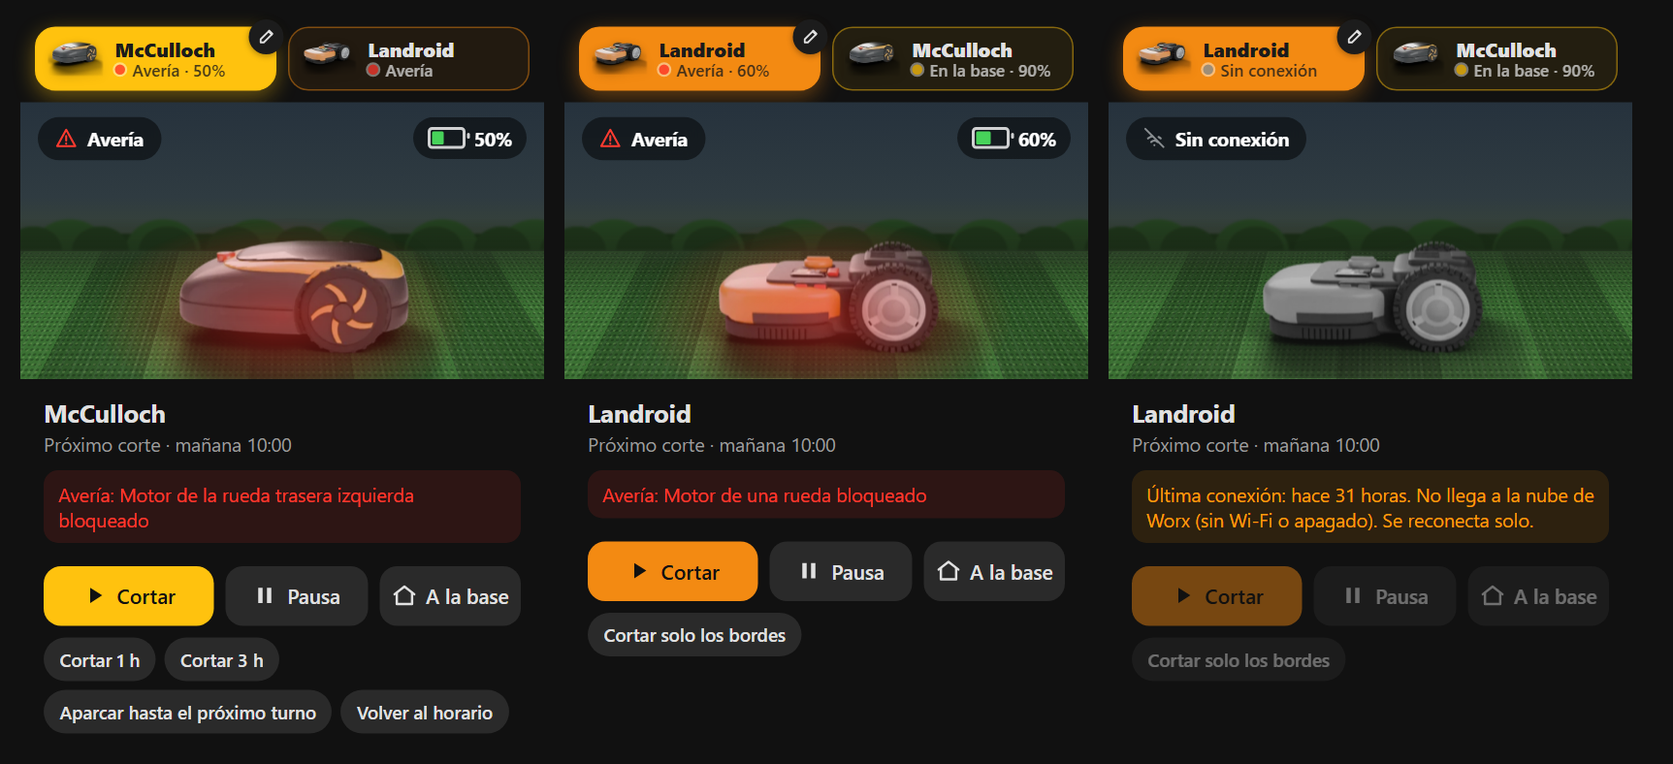
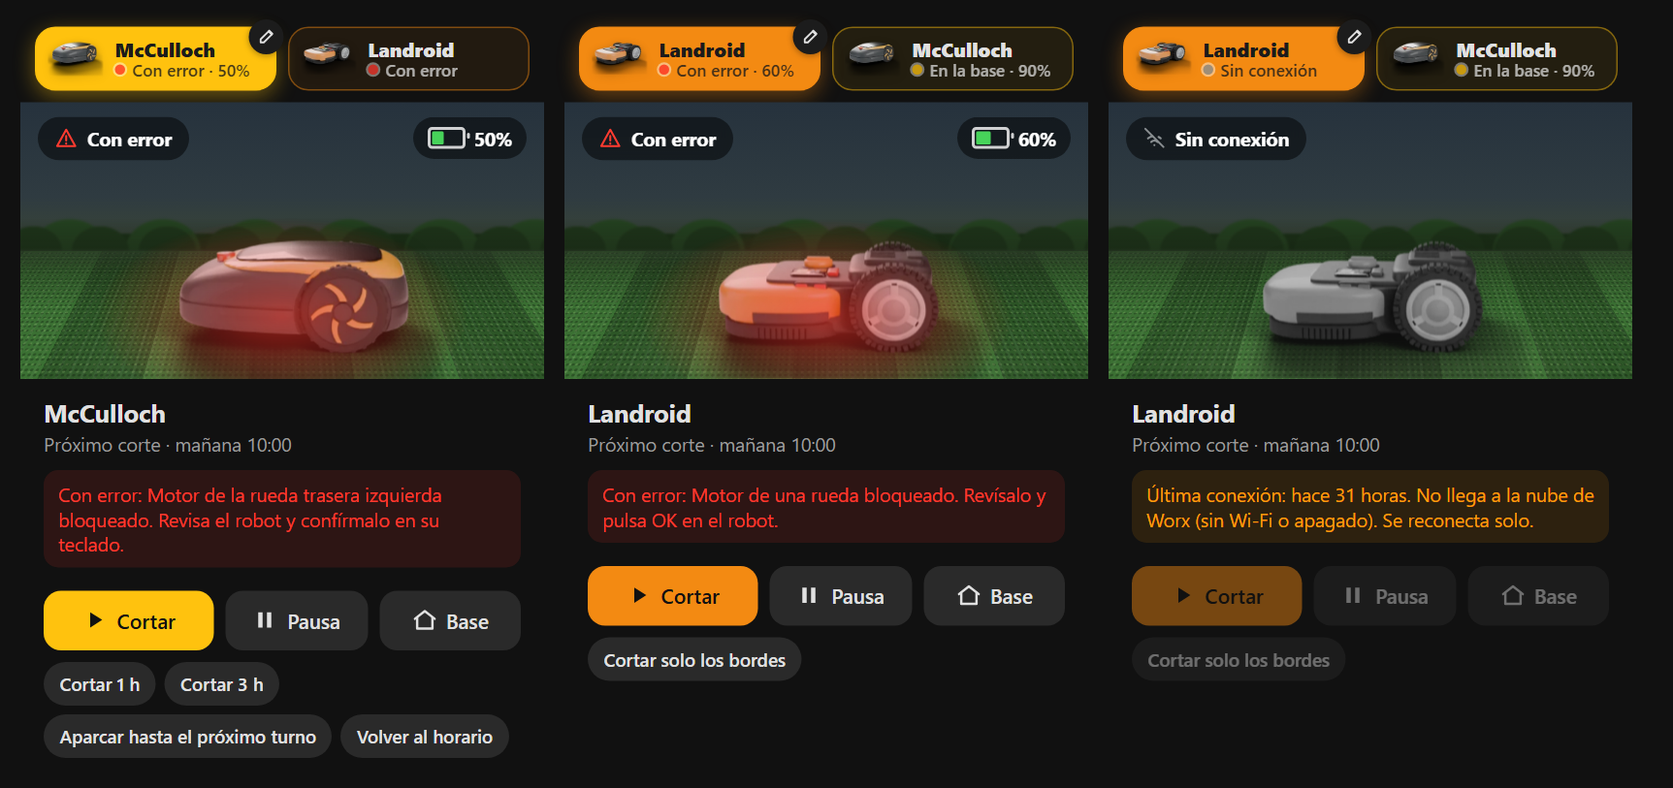
v0.3.40: la tarjeta dice lo mismo que la app
- Mismo vocabulario y los diagnósticos «Error al cargar», «Parado por atasco» y «Parado en el jardín», con qué hacer en cada caso.
- Idiomas, accesibilidad y un test que exige las mismas claves de texto en español y en inglés.
- En columnas estrechas, barra de robots apilada y órdenes sin icono.

Incluye las versiones v0.3.39 a v0.3.40 (2).

diff --git a/custom_components/mcculloch_rob/www/mcculloch-rob-card.js b/custom_components/mcculloch_rob/www/mcculloch-rob-card.js
@@ -7,11 +7,16 @@ const VER = new URL(import.meta.url).search;  // ?v=<versión>: HA sirve www con
 const T = {
   es: {
     mowing: 'Cortando', homing: 'Volviendo a la base', leaving: 'Saliendo de la base', charging: 'Cargando',
-    docked: 'En la base', paused: 'En pausa', idle: 'Parado', offline: 'Fuera de alcance', error: 'Avería',
-    lifted: 'Levantado', upside: 'Volcado', start: 'Cortar', pause: 'Pausa', dock: 'A la base',
+    docked: 'En la base', paused: 'En pausa', idle: 'Parado', offline: 'Sin conexión', error: 'Con error',
+    lifted: 'Levantado', upside: 'Volcado', start: 'Cortar', pause: 'Pausa', dock: 'Base',
+    chargeFail: 'Error al cargar', chargeFailMsg: 'Está en la base pero no carga. Colócalo recto y limpia con un paño los contactos de la base y los del robot.',
+    stuck: 'Parado por atasco', stuckMsg: 'Lleva varios minutos parado fuera de la base y sin ningún error: lo más probable es que esté atascado. Ve a verlo.',
+    gardenStop: 'Parado en el jardín', gardenStopMsg: 'Se ha parado en el jardín y espera que alguien lo atienda.',
+    liftedMsg: 'Déjalo en el césped y sigue solo.', upsideMsg: 'Dale la vuelta y confírmalo en el robot.',
+    errHintMc: 'Revisa el robot y confírmalo en su teclado.', errHintLd: 'Revísalo y pulsa OK en el robot.',
     mow1: 'Cortar 1 h', mow3: 'Cortar 3 h', parkNext: 'Aparcar hasta el próximo turno', resume: 'Volver al horario', edgecut: 'Cortar solo los bordes',
-    next: 'Próximo corte', today: 'hoy', tomorrow: 'mañana', none: 'sin programación', battery: 'Batería', lastData: 'último dato', lastSeen: 'Última conexión',
-    offlineMsg: 'El robot no está al alcance del Bluetooth. Se reconecta solo al volver cerca del receptor.',
+    next: 'Próximo corte', today: 'hoy', tomorrow: 'mañana', none: 'sin programación', battery: 'Batería', lastData: 'último dato', lastSeen: 'Última conexión', lastReading: 'Último dato',
+    offlineMsg: 'El robot no responde por Bluetooth: está lejos del receptor o se ha quedado sin batería. Se reconecta solo en cuanto vuelva a responder.',
     offlineLd: 'No llega a la nube de Worx (sin Wi-Fi o apagado). Se reconecta solo.',
     rain: 'Llueve: espera a que se seque el césped', noLink: 'Sin conexión', noneOff: 'el horario se verá al conectar',
     pick: 'Robot (entidad lawn_mower)', name: 'Nombre que se ve (opcional)', noEntity: 'No encuentro la entidad',
@@ -21,11 +26,16 @@ const T = {
   },
   en: {
     mowing: 'Mowing', homing: 'Going home', leaving: 'Leaving the dock', charging: 'Charging',
-    docked: 'Docked', paused: 'Paused', idle: 'Stopped', offline: 'Out of range', error: 'Error',
+    docked: 'Docked', paused: 'Paused', idle: 'Stopped', offline: 'Offline', error: 'Error',
     lifted: 'Lifted', upside: 'Upside down', start: 'Mow', pause: 'Pause', dock: 'Dock',
+    chargeFail: 'Charging error', chargeFailMsg: 'It is on the dock but not charging. Straighten it and wipe the contacts on the dock and on the mower.',
+    stuck: 'Stopped, probably stuck', stuckMsg: 'It has been stopped away from the dock for several minutes with no error: it is probably stuck. Go and check it.',
+    gardenStop: 'Stopped in the garden', gardenStopMsg: 'It stopped in the garden and is waiting for someone.',
+    liftedMsg: 'Put it back on the lawn and it carries on.', upsideMsg: 'Turn it over and confirm on the mower.',
+    errHintMc: 'Check the mower and confirm on its keypad.', errHintLd: 'Check it and press OK on the mower.',
     mow1: 'Mow 1 h', mow3: 'Mow 3 h', parkNext: 'Park until next run', resume: 'Resume schedule', edgecut: 'Cut edges only',
-    next: 'Next run', today: 'today', tomorrow: 'tomorrow', none: 'no schedule', battery: 'Battery', lastData: 'last known', lastSeen: 'Last seen',
-    offlineMsg: 'The mower is out of Bluetooth range. It reconnects by itself when it comes back near the receiver.',
+    next: 'Next run', today: 'today', tomorrow: 'tomorrow', none: 'no schedule', battery: 'Battery', lastData: 'last known', lastSeen: 'Last seen', lastReading: 'Last reading',
+    offlineMsg: 'The mower is not answering over Bluetooth: it is out of range or its battery is flat. It reconnects by itself as soon as it answers.',
     offlineLd: 'It cannot reach the Worx cloud (no Wi-Fi or switched off). It reconnects by itself.',
     rain: 'Raining: waiting for the lawn to dry', noLink: 'Offline', noneOff: 'schedule shows up once connected',
     pick: 'Mower (lawn_mower entity)', name: 'Display name (optional)', noEntity: 'Entity not found',
@@ -53,7 +63,7 @@ const errsReady = fetch(BASE + 'errores_es.json' + VER).then(r => r.json()).then
 
 const CSS = `
 :host{display:block}
-ha-card{overflow:hidden}
+ha-card{display:block;overflow:hidden;container-type:inline-size}
 .rbar{display:grid;grid-template-columns:1fr 1fr;gap:8px;padding:10px 10px 8px}
 .rbar[hidden]{display:none}
 /* cada robot con su foto y su color de marca: el elegido, relleno; el otro, solo con el borde */
@@ -65,6 +75,8 @@ ha-card{overflow:hidden}
 .rbar .th{width:38px;height:28px;flex:none;object-fit:contain;filter:drop-shadow(0 2px 3px rgba(0,0,0,.3))}
 .rbar .rtx{display:flex;flex-direction:column;min-width:0;flex:1}
 .rbar b{overflow-wrap:anywhere}
+/* columna estrecha (menos de ~340 px): los dos robots uno encima del otro; lado a lado partían «McCul·loch» a mitad de palabra */
+@container (max-width:340px){.rbar{grid-template-columns:1fr}.rbar b{overflow-wrap:break-word}}
 .rbar small{display:flex;align-items:center;gap:5px;opacity:.75;font-weight:550;font-size:11.5px}
 .rbar button.on small{opacity:.8}
 /* lápiz como insignia en la esquina: el nombre y el estado usan todo el ancho y no se parten */
@@ -164,6 +176,8 @@ ha-card{overflow:hidden}
 .acts button.main{background:var(--accent,#ffc20e);color:#111}
 .acts button:disabled,.chips button:disabled{opacity:.45;cursor:default}
 .acts svg{width:18px;height:18px}
+/* muy estrecha (menos de ~300 px): sin iconos en las tres órdenes y con menos margen; con el icono, «Base» se salía de la tarjeta */
+@container (max-width:300px){.acts{padding:12px 10px 8px;gap:6px}.acts button{min-width:0;font-size:13px}.acts svg{display:none}}
 .chips{display:flex;flex-wrap:wrap;gap:6px;padding:0 16px 14px}
 .chips button{font-size:12.5px;padding:7px 11px;border-radius:99px}
 .chips button[hidden]{display:none}
@@ -184,7 +198,7 @@ const HTML = `
   </div>
   <div class="body">
     <div class="title"><b id="name"></b><span id="next"></span></div>
-    <div id="alert"></div>
+    <div id="alert" role="status" aria-live="polite"></div>
   </div>
   <div class="acts">
     <button class="main" data-a="start"><svg viewBox="0 0 24 24" fill="currentColor"><path d="M8 5v14l11-7z"/></svg><span></span></button>
@@ -356,11 +370,13 @@ class McCullochRobCard extends HTMLElement {
     this._update();
   }
 
-  _t(k) { const l = (this._hass?.locale?.language || this._hass?.language || 'en').slice(0, 2); return (T[l] || T.en)[k]; }
+  // gallego, catalán y euskera, en español (no en inglés): los textos están en español e inglés
+  _lang() { const l = (this._hass?.locale?.language || this._hass?.language || 'en').slice(0, 2); return ['gl', 'ca', 'eu'].includes(l) ? 'es' : l; }
+  _t(k) { return (T[this._lang()] || T.en)[k]; }
 
   _errText(kind, code) {
     if (!code || ['ninguno', 'none', 'no_error', 'unknown', 'unavailable'].includes(code)) return '';
-    const es = (this._hass?.locale?.language || 'es').startsWith('es');
+    const es = !this._hass?.locale?.language || this._lang() === 'es';
     const tx = es && ERRS ? (ERRS[kind] || {})[code] || (ERRS.mcculloch || {})[code] : null;
     return tx || code.replace(/_/g, ' ').replace(/^./, x => x.toUpperCase());
   }
@@ -460,7 +476,8 @@ class McCullochRobCard extends HTMLElement {
     const on = k => st(k)?.state === 'on', mower = h.states[entity], kind = this._kind(entity);
     const val = k => { const s = st(k)?.state; return s && !['unknown', 'unavailable'].includes(s) ? s : null; };
     const act = val('activity'), state = val('state'), bat = val('battery') == null ? NaN : Number(val('battery'));
-    const offline = !mower || mower.state === 'unavailable';
+    // «unknown» = conectado pero sin leer aún el estado: tampoco se le pueden dar órdenes (la app dice lo mismo)
+    const offline = !mower || ['unavailable', 'unknown'].includes(mower.state);
     const err = val('error');
     const ldErr = kind === 'landroid' && err && !['no_error', 'unknown', 'rain_delay'].includes(err);
     const charging = on('charging');
@@ -468,14 +485,23 @@ class McCullochRobCard extends HTMLElement {
     const upside = on('upside_down') || (kind === 'landroid' && err === 'upside_down');
     const error = on('problem') || state === 'error' || state === 'fatal_error' || mower?.state === 'error' || (ldErr && !lifted && !upside);
     const moving = ['mowing', 'going_out', 'going_home'].includes(act) || (!act && ['mowing', 'edgecut'].includes(mower?.state));
-    const s = offline ? 'offline' : upside ? 'upside' : lifted ? 'lifted' : error ? 'error' : charging ? 'charging'
+    const s0 = offline ? 'offline' : upside ? 'upside' : lifted ? 'lifted' : error ? 'error' : charging ? 'charging'
       : act === 'going_home' || mower?.state === 'returning' ? 'homing' : act === 'going_out' ? 'leaving'
       : moving ? 'mowing' : (on('in_station') || act === 'parked' || act === 'charging' || mower?.state === 'docked') ? 'docked'
       // la integración manda a «paused» también el robot apagado, esperando PIN o parado: eso no es una pausa
       : ['off', 'wait_for_safetypin', 'stopped'].includes(state) || act === 'stopped_in_garden' ? 'idle'
       : state === 'paused' || mower?.state === 'paused' ? 'paused' : 'idle';
     const rain = kind === 'landroid' && (on('rain') || err === 'rain_delay');
-    return {s, bat, charging, offline, err, kind, rain, mower, ids, st};
+    // Landroid: dos situaciones que el robot no da como error y que se ven igual que en la app: en la base sin
+    // cargar («falta el cable» estando ahí es que no hace contacto) y parado fuera de la base sin ningún error
+    const lm = mower?.state, since = Date.now() - new Date(mower?.last_changed).getTime();
+    const chargeFail = kind === 'landroid' && !offline && st('charging')?.state === 'off' && !lifted && !upside && bat < 98
+      && ((lm === 'docked' && since >= 12e4) || (['docked', 'idle'].includes(lm) && err === 'wire_missing'));
+    const stuck = kind === 'landroid' && !offline && !charging && !chargeFail && !lifted && !upside && lm === 'idle' && !ldErr && since >= 18e4;
+    // el McCulloch que se para en el jardín pide que alguien lo atienda (los avisos al móvil ya lo dicen)
+    const msg = chargeFail ? 'chargeFail' : stuck ? 'stuck' : act === 'stopped_in_garden' && s0 === 'idle' ? 'gardenStop' : null;
+    const s = msg === 'chargeFail' ? 'error' : s0;
+    return {s, msg, col: msg === 'stuck' || msg === 'gardenStop' ? '#ff9f0a' : COLOR[s], bat, charging, offline, err, kind, rain, mower, ids, st};
   }
 
   _update() {
@@ -488,7 +514,7 @@ class McCullochRobCard extends HTMLElement {
     const bar = r.getElementById('rbar');
     bar.hidden = robots.length < 2;
     if (robots.length > 1 && !this._renaming) {
-      const key = robots.map(x => { const q = this._status(x.entity); return [x.entity, q.s, q.bat, name(x), x.entity === this._sel].join('|'); }).join(';');
+      const key = robots.map(x => { const q = this._status(x.entity); return [x.entity, q.s, q.msg, q.bat, name(x), x.entity === this._sel].join('|'); }).join(';');
       if (bar.dataset.k !== key) {
         bar.dataset.k = key;
         bar.replaceChildren(...robots.map(x => {
@@ -498,9 +524,9 @@ class McCullochRobCard extends HTMLElement {
           b.innerHTML = `<img class="th" alt=""><span class="rtx"><b></b><small><i></i><span></span></small></span>`
             + (on ? `<span class="pen" data-pen title="${this._t('rename')}"><svg viewBox="0 0 24 24"><path d="M4 20h4L19 9l-4-4L4 16z"/><path d="M14 6l4 4"/></svg></span>` : '');
           b.querySelector('.th').src = `${BASE}${q.kind === 'landroid' ? 'rob3d_landroid' : 'rob3d'}/icono.webp${VER}`;
-          b.querySelector('i').style.setProperty('--c', COLOR[q.s]);
+          b.querySelector('i').style.setProperty('--c', q.col);
           b.querySelector('b').textContent = name(x);
-          const st = q.s === 'offline' && q.kind === 'landroid' ? this._t('noLink') : this._t(q.s);
+          const st = q.msg ? this._t(q.msg) : q.s === 'offline' && q.kind === 'landroid' ? this._t('noLink') : this._t(q.s);
           b.querySelector('small span').textContent = isNaN(q.bat) ? st : `${st} · ${q.bat}%`;
           return b;
         }));
@@ -515,12 +541,15 @@ class McCullochRobCard extends HTMLElement {
       this._wake();  // pone la vista que toca al nuevo estado (y sigue animando si corta)
     }
     const pill = r.getElementById('pill');
-    pill.style.setProperty('--c', COLOR[s]);
+    pill.style.setProperty('--c', q.col);
     pill.firstChild.innerHTML = ICON[s];
-    const label = s === 'offline' && kind === 'landroid' ? this._t('noLink') : this._t(s);
-    // la etiqueta, corta; la avería concreta, en el aviso de abajo
+    const label = q.msg ? this._t(q.msg) : s === 'offline' && kind === 'landroid' ? this._t('noLink') : this._t(s);
+    // la etiqueta, corta; el error concreto, en el aviso de abajo
     let detail = label;
-    if (s === 'error') { const e = this._errText(kind, q.err); if (e) detail = `${label}: ${e}`; }
+    // y qué hacer: igual que el aviso de la app
+    if (s === 'error' && !q.msg) { const e = this._errText(kind, q.err); detail = `${e ? `${label}: ${e}` : label}. ${this._t(kind === 'landroid' ? 'errHintLd' : 'errHintMc')}`; }
+    if (s === 'lifted') detail = `${label}. ${this._t('liftedMsg')}`;
+    if (s === 'upside') detail = `${label}. ${this._t('upsideMsg')}`;
     if (pill.lastChild.textContent !== label) {
       pill.lastChild.textContent = label;
       pill.classList.remove('bump'); void pill.offsetWidth; pill.classList.add('bump');
@@ -566,14 +595,18 @@ class McCullochRobCard extends HTMLElement {
     // fuera de alcance: cuándo se supo de él por última vez (sensor siempre disponible)
     // sin la entidad (nombre mal escrito o integración quitada) no es un problema de Bluetooth ni de la nube
     let offTxt = !mower ? `${this._t('noEntity')}: ${this._sel}` : this._t(kind === 'landroid' ? 'offlineLd' : 'offlineMsg');
-    const seen = new Date(q.st('last_seen')?.state);
+    let seen = new Date(q.st('last_seen')?.state), seenKey = 'lastSeen';
+    // «Última conexión» sin dato (HA recién arrancado): al menos la última lectura, como hace la app
+    if (offline && mower && isNaN(seen) && q.st('battery')?.last_updated) { seen = new Date(q.st('battery').last_updated); seenKey = 'lastReading'; }
     if (offline && !isNaN(seen)) {
       const mins = (seen - Date.now()) / 6e4;
       const rtf = new Intl.RelativeTimeFormat(h.locale?.language || 'es', {numeric: 'auto'});
       const rel = Math.abs(mins) < 120 ? rtf.format(Math.round(mins), 'minute') : Math.abs(mins) < 2880 ? rtf.format(Math.round(mins / 60), 'hour') : rtf.format(Math.round(mins / 1440), 'day');
-      offTxt = `${this._t('lastSeen')}: ${rel}. ${offTxt}`;
+      offTxt = `${this._t(seenKey)}: ${rel}. ${offTxt}`;
     }
-    const [alCls, alTxt] = offline ? ['alert warn', offTxt] : ['upside', 'lifted', 'error'].includes(s) ? ['alert', detail]
+    // rojo solo para lo que de verdad es un fallo; atascado o parado en el jardín piden atención, en ámbar
+    const [alCls, alTxt] = offline ? ['alert warn', offTxt] : q.msg ? [q.msg === 'chargeFail' ? 'alert' : 'alert warn', this._t(q.msg + 'Msg')]
+      : ['upside', 'lifted', 'error'].includes(s) ? ['alert', detail]
       : q.rain ? ['alert info', this._t('rain')] : ['', ''];
     const alEl = r.getElementById('alert');
     // el texto viene de un sensor: siempre como texto, nunca como HTML
@@ -621,7 +654,7 @@ class McCullochRobCardEditor extends HTMLElement {
     if (!this._form) {
       this._form = document.createElement('ha-form');
       this._form.computeLabel = s => {
-        const l = (this._hass.locale?.language || 'en').slice(0, 2), t = T[l] || T.en;
+        const l0 = (this._hass.locale?.language || 'en').slice(0, 2), l = ['gl', 'ca', 'eu'].includes(l0) ? 'es' : l0, t = T[l] || T.en;
         return {entity: t.pick, name: t.name, entity_2: t.pick2, name_2: t.name2, image: t.image}[s.name];
       };
       this._form.schema = [

diff --git a/tests/test_errores.py b/tests/test_errores.py
@@ -39,6 +39,23 @@ def test_traducciones_mismas_claves_e_ingles_limpio():
             assert en[k] == st[k], k
 
 
+def test_tarjeta_textos_es_y_en_con_las_mismas_claves():
+    """La tarjeta tiene sus textos en español e inglés: una clave que falte en uno saldría como «undefined» en pantalla."""
+    import re
+
+    js = (CC / "www" / "mcculloch-rob-card.js").read_text(encoding="utf-8")
+    bloque = js[js.index("const T = {"): js.index("const ICON")]
+    es_txt, en_txt = bloque.split("  en: {")
+    claves = lambda b: set(re.findall(r"\b(\w+):\s*'", b))  # noqa: E731
+    es, en = claves(es_txt.split("es: {", 1)[1]), claves(en_txt)
+    assert es == en, (es ^ en)
+    # todos los estados que puede enseñar la etiqueta y los avisos del Landroid y del McCulloch
+    for k in ("mowing", "homing", "leaving", "charging", "docked", "paused", "idle", "offline", "error", "lifted", "upside",
+              "chargeFail", "chargeFailMsg", "stuck", "stuckMsg", "gardenStop", "gardenStopMsg", "liftedMsg", "upsideMsg",
+              "errHintMc", "errHintLd", "lastReading"):
+        assert k in es, k
+
+
 def test_avisos_informativos_no_son_averia():
     """Ajustes restaurados, calibración hecha, cambio de conexión...: el robot los guarda como «error» pero no encienden
     «Avería» (ni la tarjeta en rojo ni un aviso al móvil)."""

diff --git a/custom_components/mcculloch_rob/entity.py b/custom_components/mcculloch_rob/entity.py
@@ -11,6 +11,9 @@ from .coordinator import RobCoordinator
 
 class RobEntity(CoordinatorEntity[RobCoordinator]):
     _attr_has_entity_name = True
+    # Los nombres de las entidades van en español FIJO a propósito (no en las traducciones): el id de cada entidad sale
+    # de su nombre (sensor.robot_cortacesped_bateria, binary_sensor.robot_cortacesped_averia...) y la app, la tarjeta y
+    # los avisos dependen de esos ids. Traducir los nombres cambiaría los ids de quien tenga Home Assistant en otro idioma.
 
     def __init__(self, coordinator: RobCoordinator, key: str, name: str | None) -> None:
         super().__init__(coordinator)

diff --git a/README.md b/README.md
@@ -31,6 +31,7 @@ Tus robots cortacésped en Home Assistant, en una tarjeta y en una app para el m
 <p align="center"><img src="docs/tarjeta.png" alt="Tarjeta con el McCulloch: cortando, cargando y volviendo a la base (se queda a medio entrar)" width="860"></p>
 <p align="center"><img src="docs/landroid.png" alt="Tarjeta con el Worx Landroid: cortando, volviendo a la base y esperando por la lluvia" width="860"></p>
 <p align="center"><img src="docs/averias.png" alt="Averías traducidas: motor de la rueda trasera izquierda bloqueado, motor de una rueda bloqueado, sin conexión" width="860"></p>
+<p align="center"><img src="docs/diagnostico.png" alt="Lo que el robot no da como error pero se ve: el Landroid en la base sin cargar, el Landroid parado por atasco y el McCulloch parado en el jardín, cada uno con qué hacer" width="860"></p>
 
 ## Qué incluye
 
@@ -83,7 +84,7 @@ Luego: *Ajustes → Dispositivos y servicios → Añadir integración → McCull
 
 ### 2. Tarjeta en el panel principal
 
-*Editar panel → Añadir tarjeta → "Robots cortacésped (McCulloch / Husqvarna / Landroid)"*. Tiene editor visual: robot, nombre, segundo robot y su nombre. En YAML:
+*Editar panel → Añadir tarjeta → "Robots cortacésped (McCulloch / Husqvarna / Landroid)"*. Tiene editor visual: robot, nombre, segundo robot y su nombre, y foto propia. En YAML:
 
 ```yaml
 type: custom:mcculloch-rob-card
@@ -96,6 +97,8 @@ image: /local/robot.webp     # opcional: foto propia del primer robot
 
 - Con dos robots sale arriba una barra con el estado y la batería de cada uno para cambiar de uno a otro.
 - El robot **se gira con el dedo**: arrástralo a los lados y, a los 3 segundos, vuelve solo a lo que estaba haciendo.
+- **Dice qué le pasa y qué hacer**, igual que la app: «Con error» con el error concreto, «Levantado» o «Volcado», «Sin conexión» con el último dato, y dos diagnósticos que el robot no da como error: el Landroid **«Error al cargar»** (en la base sin cargar) y **«Parado por atasco»** (parado fuera de la base sin ningún error), y el McCulloch **«Parado en el jardín»**.
+- Textos en español e inglés (con Home Assistant en gallego, catalán o euskera salen en español).
 - Cada robot enseña solo sus botones: el McCulloch "1 h", "3 h", "aparcar hasta el próximo turno" y "volver al horario"; el Landroid "cortar solo los bordes".
 
 **Foto propia:** guarda una imagen PNG o WebP con fondo transparente y el morro mirando a la izquierda en `/config/www/robot.webp` y añade `image: /local/robot.webp`. Así no se pierde al actualizar.
@@ -217,10 +220,12 @@ GPL-3.0, la misma que AutoMower-BLE.
 - Bluetooth integration (`mcculloch_rob`), no cloud: 98 protocol commands, schedule editing, mow/park for N hours, ~50 entities. An extended alternative to the core *Husqvarna Automower BLE* integration.
 - Lovelace card (`custom:mcculloch-rob-card`) for one or two mowers. The second one can be a Worx Landroid from the Landroid Cloud integration. It has custom Blender 3D models you can spin with your finger.
 - Installable web app (HA add-on, Docker or plain Python):
-  - push notifications;
+  - push notifications (tapping one opens the mower it is about);
   - a name and a password per mower;
+  - schedule editor (including slots that cross midnight) and history charts: 24 h activity and battery, and hours mown and error stops per day over the last 7 days;
   - last known data when out of range;
-  - auto-update.
+  - dark mode, auto-update.
+- Plain-language diagnostics, in the card and in the app, with what to do about each: *Charging error* (docked but not charging), *Stopped, probably stuck*, *Stopped in the garden*, lifted, upside down, offline.
 - All 161 error codes translated to Spanish.
 
 Install via HACS as a custom repository. For Bluetooth you need a proxy **close to the mower** (≈ –60 dBm; an ESP32-WROOM-32U with an external antenna is recommended), and the mower must be in pairing mode the first time.

diff --git a/CHANGELOG.md b/CHANGELOG.md
@@ -2,6 +2,31 @@
 
 Todas las versiones de la integración, la tarjeta y la app. Lo más nuevo, arriba.
 
+## v0.3.40 · La tarjeta en columnas estrechas
+
+#### Tarjeta
+- **Columnas estrechas** (paneles de varias columnas, móvil en horizontal, vista de sección pequeña): con menos de ~340 px los dos robots de la barra se apilan uno encima de otro (antes se partían los nombres a mitad de palabra: «McCul·loch»), y con menos de ~300 px las tres órdenes pierden el icono y el margen (antes «Base» se salía de la tarjeta). Probado a 240, 300 y 700 px de ancho.
+
+#### Código
+- Comentario en `entity.py` que explica por qué los nombres de las entidades van en español fijo (de ellos sale el id del que dependen la app, la tarjeta y los avisos).
+
+## v0.3.39 · La tarjeta de Home Assistant dice lo mismo que la app
+
+_Revisión de la tarjeta: textos, estados y diagnósticos._
+
+#### Tarjeta
+- **Mismo vocabulario que la app**: «Con error» (no «Avería»), «Sin conexión» (no «Fuera de alcance») y el botón «Base» (no «A la base»).
+- **Diagnósticos que el robot no da como error**, igual que la app: el Landroid **«Error al cargar»** (en la base sin cargar; «falta el cable» estando ahí es que no hace contacto) y **«Parado por atasco»** (parado fuera de la base sin ningún error), y el McCulloch **«Parado en el jardín»**, con qué hacer en cada caso. Los dos últimos salen en ámbar, no en rojo.
+- **Qué hacer**, no solo qué pasa: «Levantado. Déjalo en el césped y sigue solo», «Volcado. Dale la vuelta y confírmalo en el robot», y tras cada error concreto cómo confirmarlo.
+- **Sin conexión**: el robot conectado pero sin leer aún el estado (`unknown`) también cuenta como sin conexión; si «Última conexión» no tiene dato sale al menos «Último dato: hace 5 horas»; y el aviso del McCulloch dice que puede estar lejos **o sin batería**.
+- **Idiomas**: con Home Assistant en gallego, catalán o euskera la tarjeta sale en español (antes, en inglés).
+- Accesibilidad: el aviso se anuncia a los lectores de pantalla (`role="status"`).
+
+#### Repo
+- Un test comprueba que los textos de la tarjeta en español y en inglés tienen las mismas claves y que están todos los estados.
+- README: la tarjeta cuenta lo que hace ahora, y capturas nuevas (con una imagen de los diagnósticos).
+- Revisado el historial completo del repo (63 commits): sin datos personales ni secretos.
+
 ## v0.3.38 · Textos coherentes, avisos informativos fuera de «Avería» y una plantilla de HA que no funcionaba
 
 _Revisión de textos y de la tarjeta, las traducciones y la plantilla de avisos de Home Assistant._
